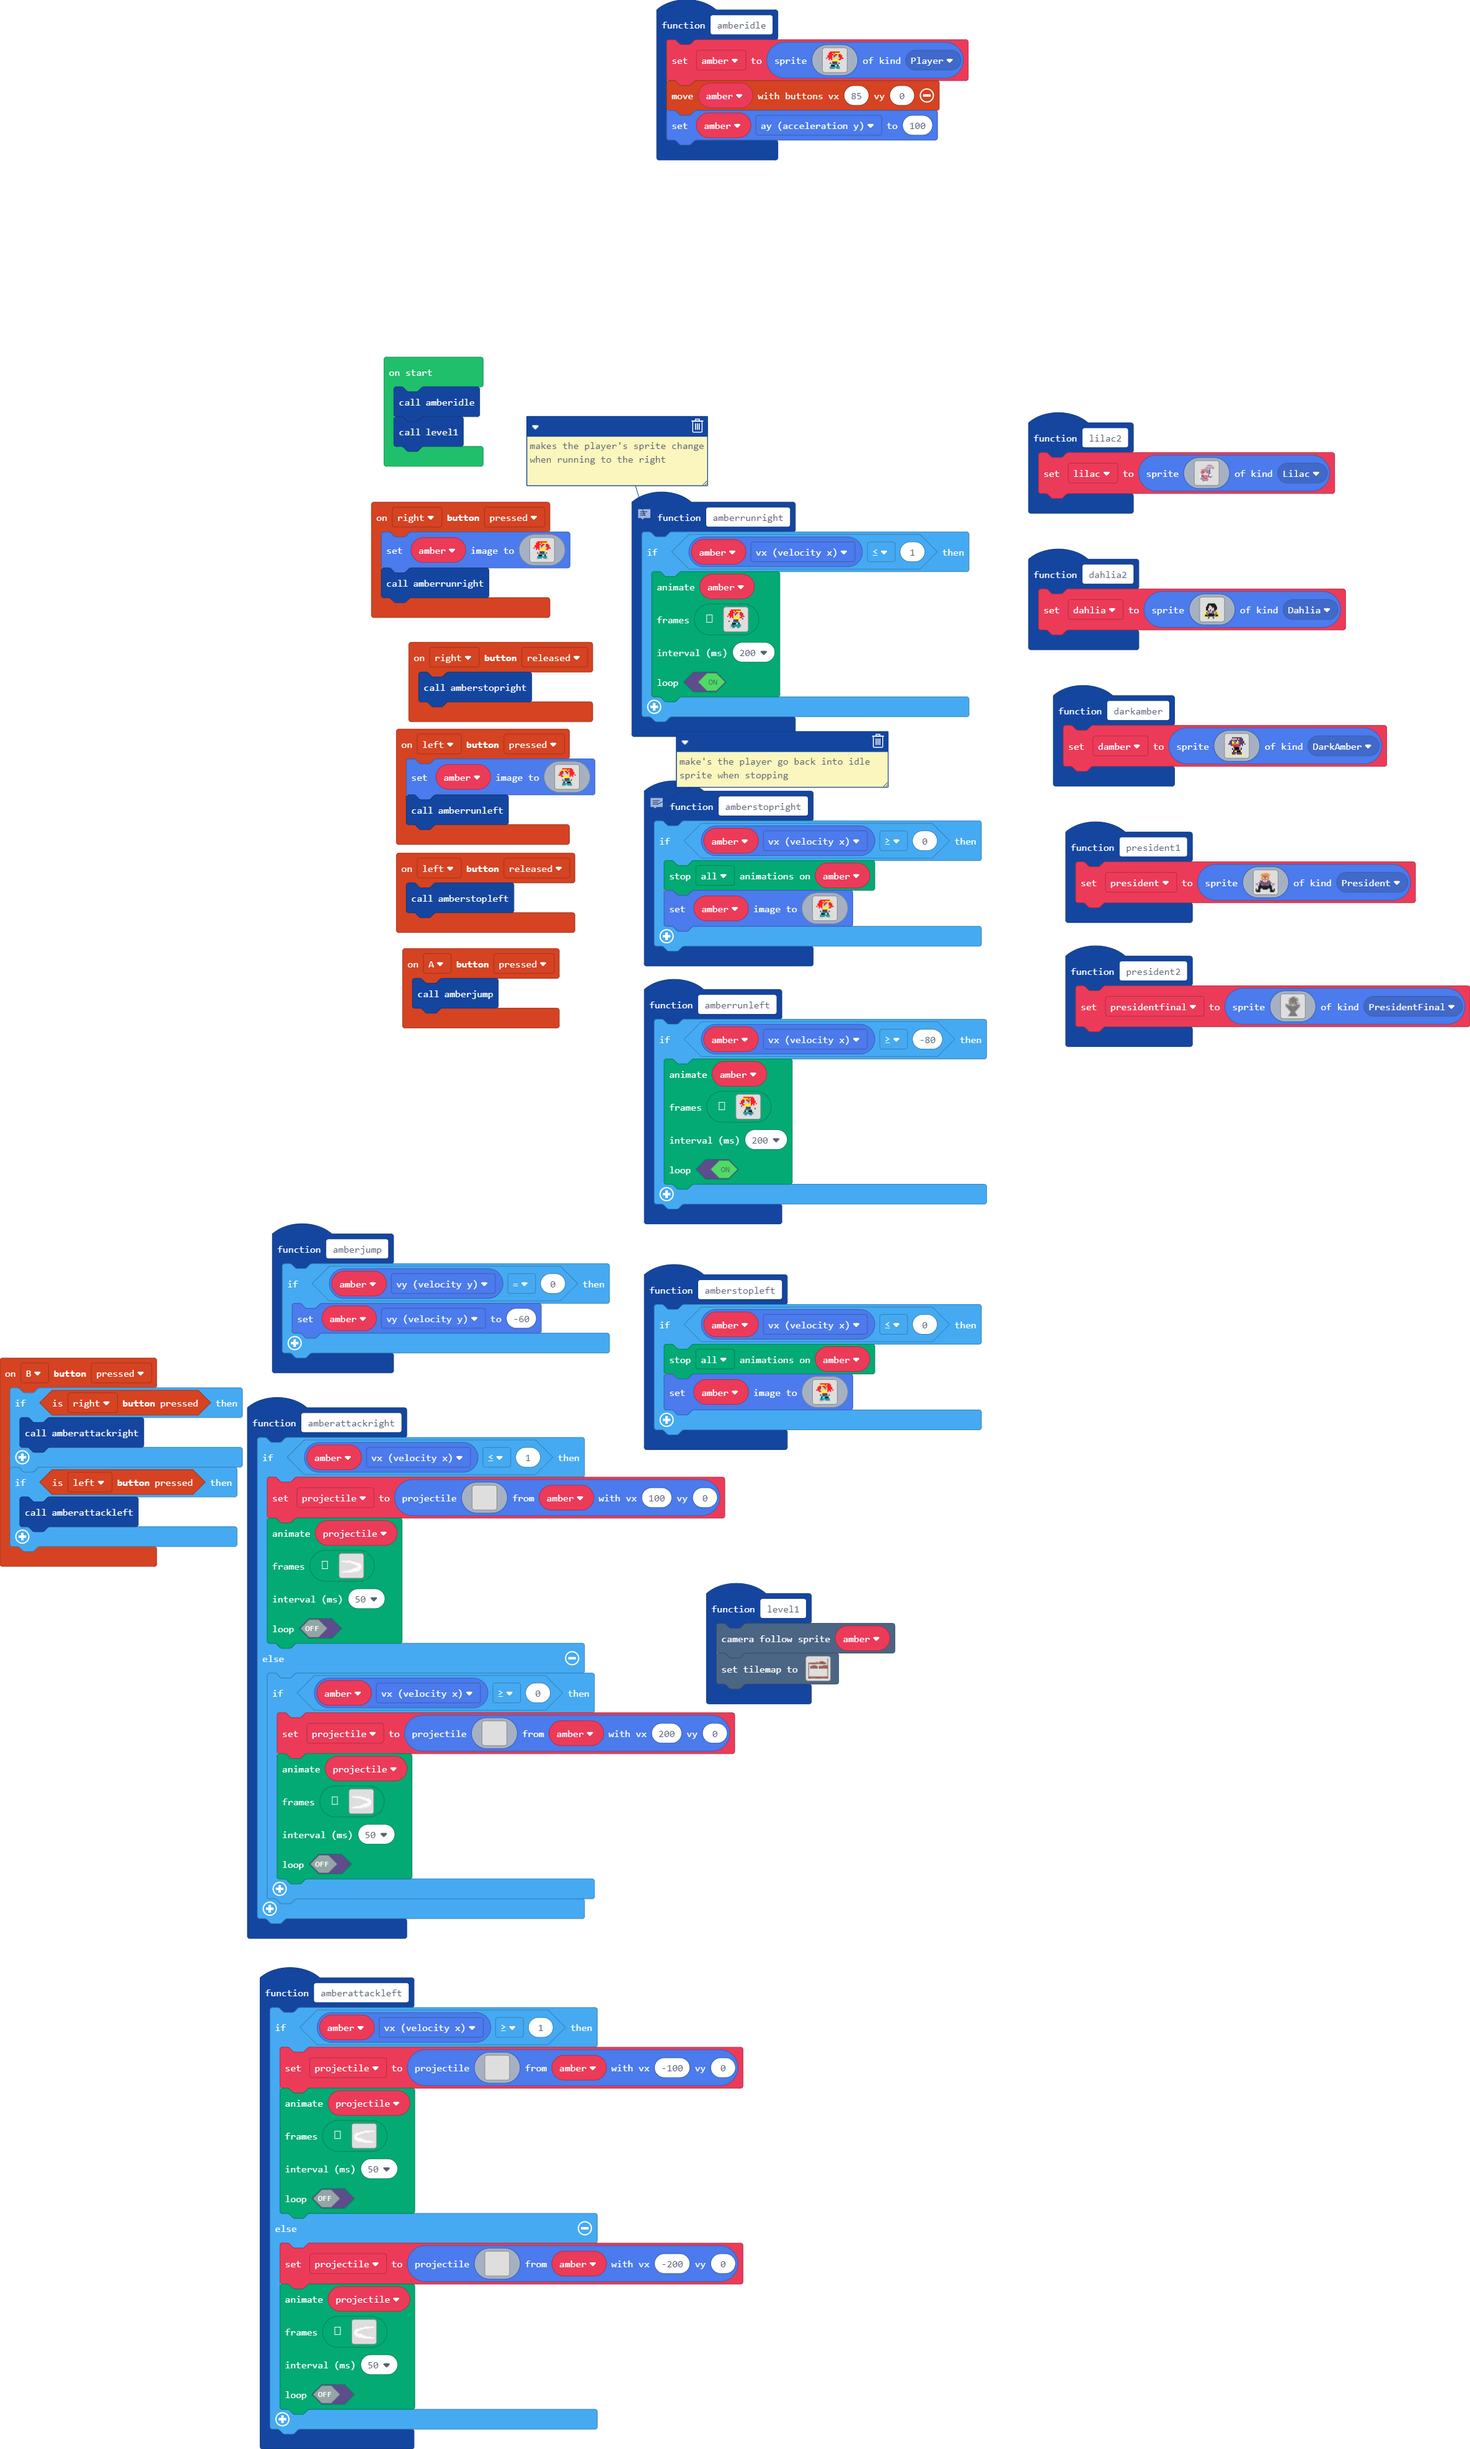
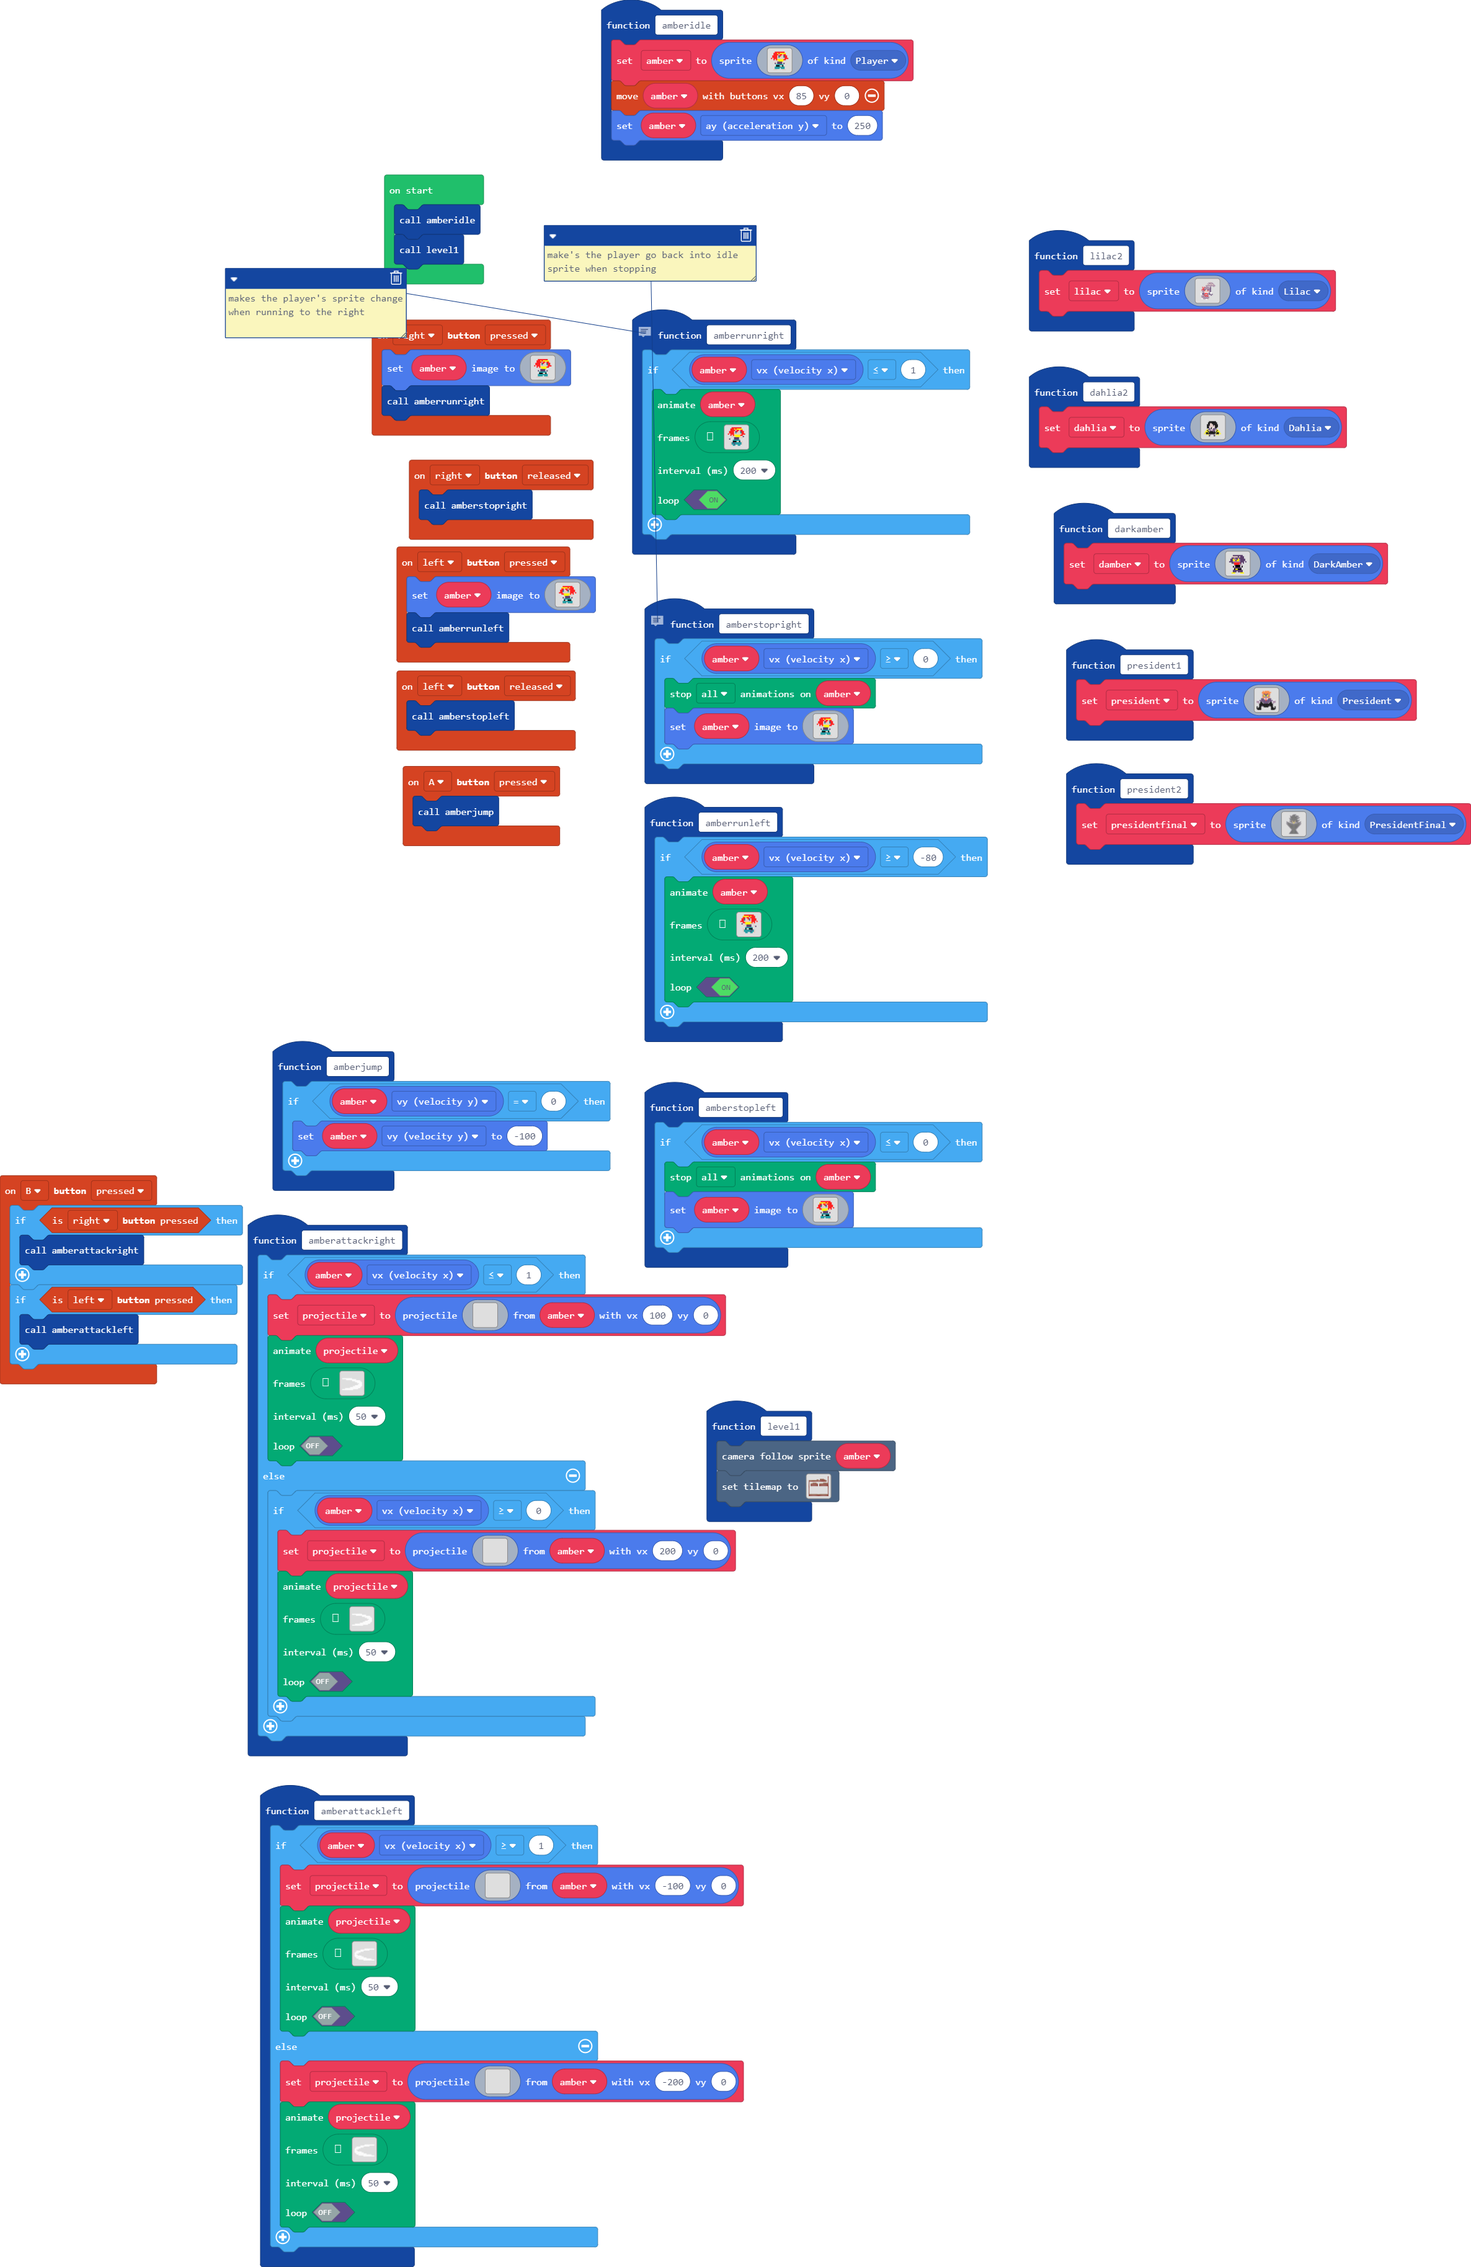
Update main.blocks, main.ts

Changed region(s): [[0.0, 0.0, 0.6866, 0.9981], [0.6866, 0.0936, 1.0, 0.4367]]

diff --git a/main.ts b/main.ts
@@ -64,6 +64,101 @@ e e e e e e e e e e f e e e e e
 e e e e e e e e e e e e e e e e 
 `
 }
+function level1 () {
+    scene.cameraFollowSprite(amber)
+    tiles.setTilemap(tiles.createTilemap(
[1 lines of base64/hex data omitted]
+            img`
+. . . . . . . . . . . . . . . . . . . . . . . . . . . . . 2 
+. . . . . . . . . . . . . . . . . . . . . . . . . . . . . 2 
+. . . . . . . . . . . . . . . . . . . . . . . . . . . . . 2 
+. . . . . . . . . . . . . . . . . . . . . . . . . . . . . 2 
+. . . . . . . . . . . . . . . . . 2 2 2 2 2 2 . . . . . . 2 
+. . . . . . . . . . . . 2 2 2 . . 2 2 2 2 2 2 2 2 . . . . 2 
+2 2 2 2 2 2 2 2 2 2 2 2 2 2 2 2 2 2 2 2 2 2 2 2 2 2 2 . . 2 
+2 2 2 2 2 2 2 2 2 2 2 2 2 2 2 2 2 2 2 2 2 2 2 2 2 2 2 . . 2 
+2 . . . . . . . . . . . . . . . . . . . . . . . . . . . . 2 
+2 . . . . . . . . . . . . . . . . . . . . . . . . . . . . 2 
+2 . . . . . 2 2 2 2 2 2 . . . . . . . . . . 2 2 2 2 2 2 2 2 
+2 . . 2 2 2 2 2 2 2 2 2 2 2 . . 2 2 2 2 2 2 2 2 2 2 2 2 2 2 
+2 . . 2 2 2 2 2 2 2 2 2 2 2 . . 2 2 2 2 2 2 2 2 2 2 2 2 2 2 
+2 . . 2 2 2 2 2 2 2 2 2 2 2 . . 2 2 2 2 2 2 2 2 2 2 2 2 2 2 
+2 . . 2 2 2 2 2 2 2 2 2 2 2 . . 2 2 2 2 2 2 2 2 2 2 2 2 2 2 
+2 . . . . . . . . . . . . . . . . . . . . . . . . . . . . 2 
+2 . . . . . . . . . . . . . . . . . . . . . . . . . . . . 2 
+2 . . . . . . . . . . . . . . . . . . . . . . . . . . . . 2 
+2 . . . . . . . . . . . . . . . . . . . . . . . . . . . . 2 
+2 . . . . . . . . . . . . . . . . . . . . . . . . . . . . 2 
+2 . . . . . . . . . . . . . . . . . . . . . . . . . . . . 2 
+2 . . . . . . . . . . . . . . . . . . . . . . . . . . . . 2 
+2 . . . . . . . . . . . . . . . . . . . . . . . . . . . . 2 
+2 . . . . . . . . . . . . . . . . . . . . . . . . . . . . 2 
+2 . . . . . . . . . . . . . . . . . . . . . . . . . . . . 2 
+2 . . . . . . . . . . . . . . . . . . . . . . . . . . . . 2 
+2 . . . . . . . . . . . . . . . . . . . . . . . . . . . . 2 
+2 2 2 2 2 2 2 2 2 2 2 2 2 2 2 2 2 2 2 2 2 2 2 2 2 2 2 2 2 2 
+2 2 2 2 2 2 2 2 2 2 2 2 2 2 2 2 2 2 2 2 2 2 2 2 2 2 2 2 2 2 
+2 2 2 2 2 2 2 2 2 2 2 2 2 2 2 2 2 2 2 2 2 2 2 2 2 2 2 2 2 2 
+`,
+            [myTiles.tile0,myTiles.tile1,myTiles.tile3],
+            TileScale.Sixteen
+        ))
+}
+controller.left.onEvent(ControllerButtonEvent.Pressed, function () {
+    amber.setImage(img`
+. . . . . . . . . . . . . . . . 
+. . . . 2 2 2 2 2 2 2 2 . . . . 
+. . . 5 5 5 5 5 2 5 2 2 2 . . . 
+. . . 2 2 d 2 2 d 2 2 2 2 . . . 
+. . 2 2 c d d 2 c d 2 2 2 2 . . 
+. . 2 2 6 d d d 6 d 2 2 2 2 . . 
+. 2 2 2 d d d d d d 2 2 2 . 2 . 
+. . . 2 2 5 5 5 5 5 2 . 2 . . . 
+. . . . . 5 5 5 5 d d . . . . . 
+. . . . . d c c c c . d . . . . 
+. . . . c . c c c c . c . . . . 
+. . . . . 6 6 6 6 6 6 . . . . . 
+. . . . . f d d f f f . . . . . 
+. . . . 6 6 6 6 6 6 6 6 . . . . 
+. . . . 6 6 6 . 6 6 6 6 . . . . 
+. . . d d d . . . . d d d . . . 
+`)
+    amberrunleft()
+})
+function president1 () {
+    president = sprites.create(img`
+. . . . . . . . . . . . . . . . . . . . . . 
+. . . . . . . 4 . 4 4 4 4 4 . . . . . . . . 
+. . . . . . 4 4 4 4 4 4 4 4 4 4 . . . . . . 
+. . . . . . 4 4 4 4 4 4 4 4 4 . . . . . . . 
+. . . . . . . 4 c c 4 c c 4 4 . . . . . . . 
+. . . . . . b 4 5 c c c 5 4 b . . . . . . . 
+. . . . . . . c 5 5 c 5 5 c . . . . . . . . 
+. . . . . . 4 4 b b b b b 4 4 . . . . . . . 
+. . . . . . . 4 4 b b b 4 4 . . . . . . . . 
+. . . . . c c c 1 1 4 1 1 c c c . . . . . . 
+. . . . . c c c c 1 2 1 c c c c . . . . . . 
+. 1 1 c c c c c c c 2 c c c c c c c 1 1 . . 
+b b b 1 c c c c c c c c c c c c c 1 b b b . 
+b b b 1 f f . c c c c c c c . f f 1 b b b . 
+. . b . f f f . c c c c c . f f f . b . . . 
+. . . f f f f f f f f f f f f f f f . . . . 
+. . . f f f f f f f f f f f f f f f . . . . 
+. . . f f f c f f f f f f f c f f f . . . . 
+f . . f f . . . f f f f f . . . f f . . f . 
+f . f f f . . . . . . . . . . . f f f . f . 
+f f f f f . . . . . . . . . . . f f f f f . 
+. f f f f . . . . . . . . . . . f f f f . . 
+`, SpriteKind.President)
+}
+controller.B.onEvent(ControllerButtonEvent.Pressed, function () {
+    if (controller.right.isPressed()) {
+        amberattackright()
+    }
+    if (controller.left.isPressed()) {
+        amberattackleft()
+    }
+})
 function amberattackleft () {
     if (amber.vx >= 1) {
         projectile = sprites.createProjectileFromSprite(img`
@@ -253,101 +348,6 @@ function amberattackleft () {
         )
     }
 }
-function level1 () {
-    scene.cameraFollowSprite(amber)
-    tiles.setTilemap(tiles.createTilemap(
[1 lines of base64/hex data omitted]
-            img`
-. . . . . . . . . . . . . . . . . . . . . . . . . . . . . 2 
-. . . . . . . . . . . . . . . . . . . . . . . . . . . . . 2 
-. . . . . . . . . . . . . . . . . . . . . . . . . . . . . 2 
-. . . . . . . . . . . . . . . . . . . . . . . . . . . . . 2 
-. . . . . . . . . . . . . . . . . 2 2 2 2 2 2 . . . . . . 2 
-. . . . . . . . . . . . 2 2 2 . . 2 2 2 2 2 2 2 2 . . . . 2 
-2 2 2 2 2 2 2 2 2 2 2 2 2 2 2 2 2 2 2 2 2 2 2 2 2 2 2 . . 2 
-2 2 2 2 2 2 2 2 2 2 2 2 2 2 2 2 2 2 2 2 2 2 2 2 2 2 2 . . 2 
-2 . . . . . . . . . . . . . . . . . . . . . . . . . . . . 2 
-2 . . . . . . . . . . . . . . . . . . . . . . . . . . . . 2 
-2 . . . . . 2 2 2 2 2 2 . . . . . . . . . . 2 2 2 2 2 2 2 2 
-2 . . 2 2 2 2 2 2 2 2 2 2 2 . . 2 2 2 2 2 2 2 2 2 2 2 2 2 2 
-2 . . 2 2 2 2 2 2 2 2 2 2 2 . . 2 2 2 2 2 2 2 2 2 2 2 2 2 2 
-2 . . 2 2 2 2 2 2 2 2 2 2 2 . . 2 2 2 2 2 2 2 2 2 2 2 2 2 2 
-2 . . 2 2 2 2 2 2 2 2 2 2 2 . . 2 2 2 2 2 2 2 2 2 2 2 2 2 2 
-2 . . . . . . . . . . . . . . . . . . . . . . . . . . . . 2 
-2 . . . . . . . . . . . . . . . . . . . . . . . . . . . . 2 
-2 . . . . . . . . . . . . . . . . . . . . . . . . . . . . 2 
-2 . . . . . . . . . . . . . . . . . . . . . . . . . . . . 2 
-2 . . . . . . . . . . . . . . . . . . . . . . . . . . . . 2 
-2 . . . . . . . . . . . . . . . . . . . . . . . . . . . . 2 
-2 . . . . . . . . . . . . . . . . . . . . . . . . . . . . 2 
-2 . . . . . . . . . . . . . . . . . . . . . . . . . . . . 2 
-2 . . . . . . . . . . . . . . . . . . . . . . . . . . . . 2 
-2 . . . . . . . . . . . . . . . . . . . . . . . . . . . . 2 
-2 . . . . . . . . . . . . . . . . . . . . . . . . . . . . 2 
-2 . . . . . . . . . . . . . . . . . . . . . . . . . . . . 2 
-2 2 2 2 2 2 2 2 2 2 2 2 2 2 2 2 2 2 2 2 2 2 2 2 2 2 2 2 2 2 
-2 2 2 2 2 2 2 2 2 2 2 2 2 2 2 2 2 2 2 2 2 2 2 2 2 2 2 2 2 2 
-2 2 2 2 2 2 2 2 2 2 2 2 2 2 2 2 2 2 2 2 2 2 2 2 2 2 2 2 2 2 
-`,
-            [myTiles.tile0,myTiles.tile1,myTiles.tile3],
-            TileScale.Sixteen
-        ))
-}
-controller.left.onEvent(ControllerButtonEvent.Pressed, function () {
-    amber.setImage(img`
-. . . . . . . . . . . . . . . . 
-. . . . 2 2 2 2 2 2 2 2 . . . . 
-. . . 5 5 5 5 5 2 5 2 2 2 . . . 
-. . . 2 2 d 2 2 d 2 2 2 2 . . . 
-. . 2 2 c d d 2 c d 2 2 2 2 . . 
-. . 2 2 6 d d d 6 d 2 2 2 2 . . 
-. 2 2 2 d d d d d d 2 2 2 . 2 . 
-. . . 2 2 5 5 5 5 5 2 . 2 . . . 
-. . . . . 5 5 5 5 d d . . . . . 
-. . . . . d c c c c . d . . . . 
-. . . . c . c c c c . c . . . . 
-. . . . . 6 6 6 6 6 6 . . . . . 
-. . . . . f d d f f f . . . . . 
-. . . . 6 6 6 6 6 6 6 6 . . . . 
-. . . . 6 6 6 . 6 6 6 6 . . . . 
-. . . d d d . . . . d d d . . . 
-`)
-    amberrunleft()
-})
-function president1 () {
-    president = sprites.create(img`
-. . . . . . . . . . . . . . . . . . . . . . 
-. . . . . . . 4 . 4 4 4 4 4 . . . . . . . . 
-. . . . . . 4 4 4 4 4 4 4 4 4 4 . . . . . . 
-. . . . . . 4 4 4 4 4 4 4 4 4 . . . . . . . 
-. . . . . . . 4 c c 4 c c 4 4 . . . . . . . 
-. . . . . . b 4 5 c c c 5 4 b . . . . . . . 
-. . . . . . . c 5 5 c 5 5 c . . . . . . . . 
-. . . . . . 4 4 b b b b b 4 4 . . . . . . . 
-. . . . . . . 4 4 b b b 4 4 . . . . . . . . 
-. . . . . c c c 1 1 4 1 1 c c c . . . . . . 
-. . . . . c c c c 1 2 1 c c c c . . . . . . 
-. 1 1 c c c c c c c 2 c c c c c c c 1 1 . . 
-b b b 1 c c c c c c c c c c c c c 1 b b b . 
-b b b 1 f f . c c c c c c c . f f 1 b b b . 
-. . b . f f f . c c c c c . f f f . b . . . 
-. . . f f f f f f f f f f f f f f f . . . . 
-. . . f f f f f f f f f f f f f f f . . . . 
-. . . f f f c f f f f f f f c f f f . . . . 
-f . . f f . . . f f f f f . . . f f . . f . 
-f . f f f . . . . . . . . . . . f f f . f . 
-f f f f f . . . . . . . . . . . f f f f f . 
-. f f f f . . . . . . . . . . . f f f f . . 
-`, SpriteKind.President)
-}
-controller.B.onEvent(ControllerButtonEvent.Pressed, function () {
-    if (controller.right.isPressed()) {
-        amberattackright()
-    }
-    if (controller.left.isPressed()) {
-        amberattackleft()
-    }
-})
 controller.left.onEvent(ControllerButtonEvent.Released, function () {
     amberstopleft()
 })
@@ -371,7 +371,7 @@ function amberidle () {
 . . . d d d . . . . d d d . . . 
 `, SpriteKind.Player)
     controller.moveSprite(amber, 85, 0)
-    amber.ay = 100
+    amber.ay = 250
 }
 function president2 () {
     presidentfinal = sprites.create(img`
@@ -573,7 +573,7 @@ function darkamber () {
 }
 function amberjump () {
     if (amber.vy == 0) {
-        amber.vy = -60
+        amber.vy = -100
     }
 }
 controller.right.onEvent(ControllerButtonEvent.Released, function () {
@@ -981,8 +981,8 @@ let dahlia: Sprite = null
 let damber: Sprite = null
 let lilac: Sprite = null
 let presidentfinal: Sprite = null
-let president: Sprite = null
 let projectile: Sprite = null
+let president: Sprite = null
 let amber: Sprite = null
 amberidle()
 level1()
